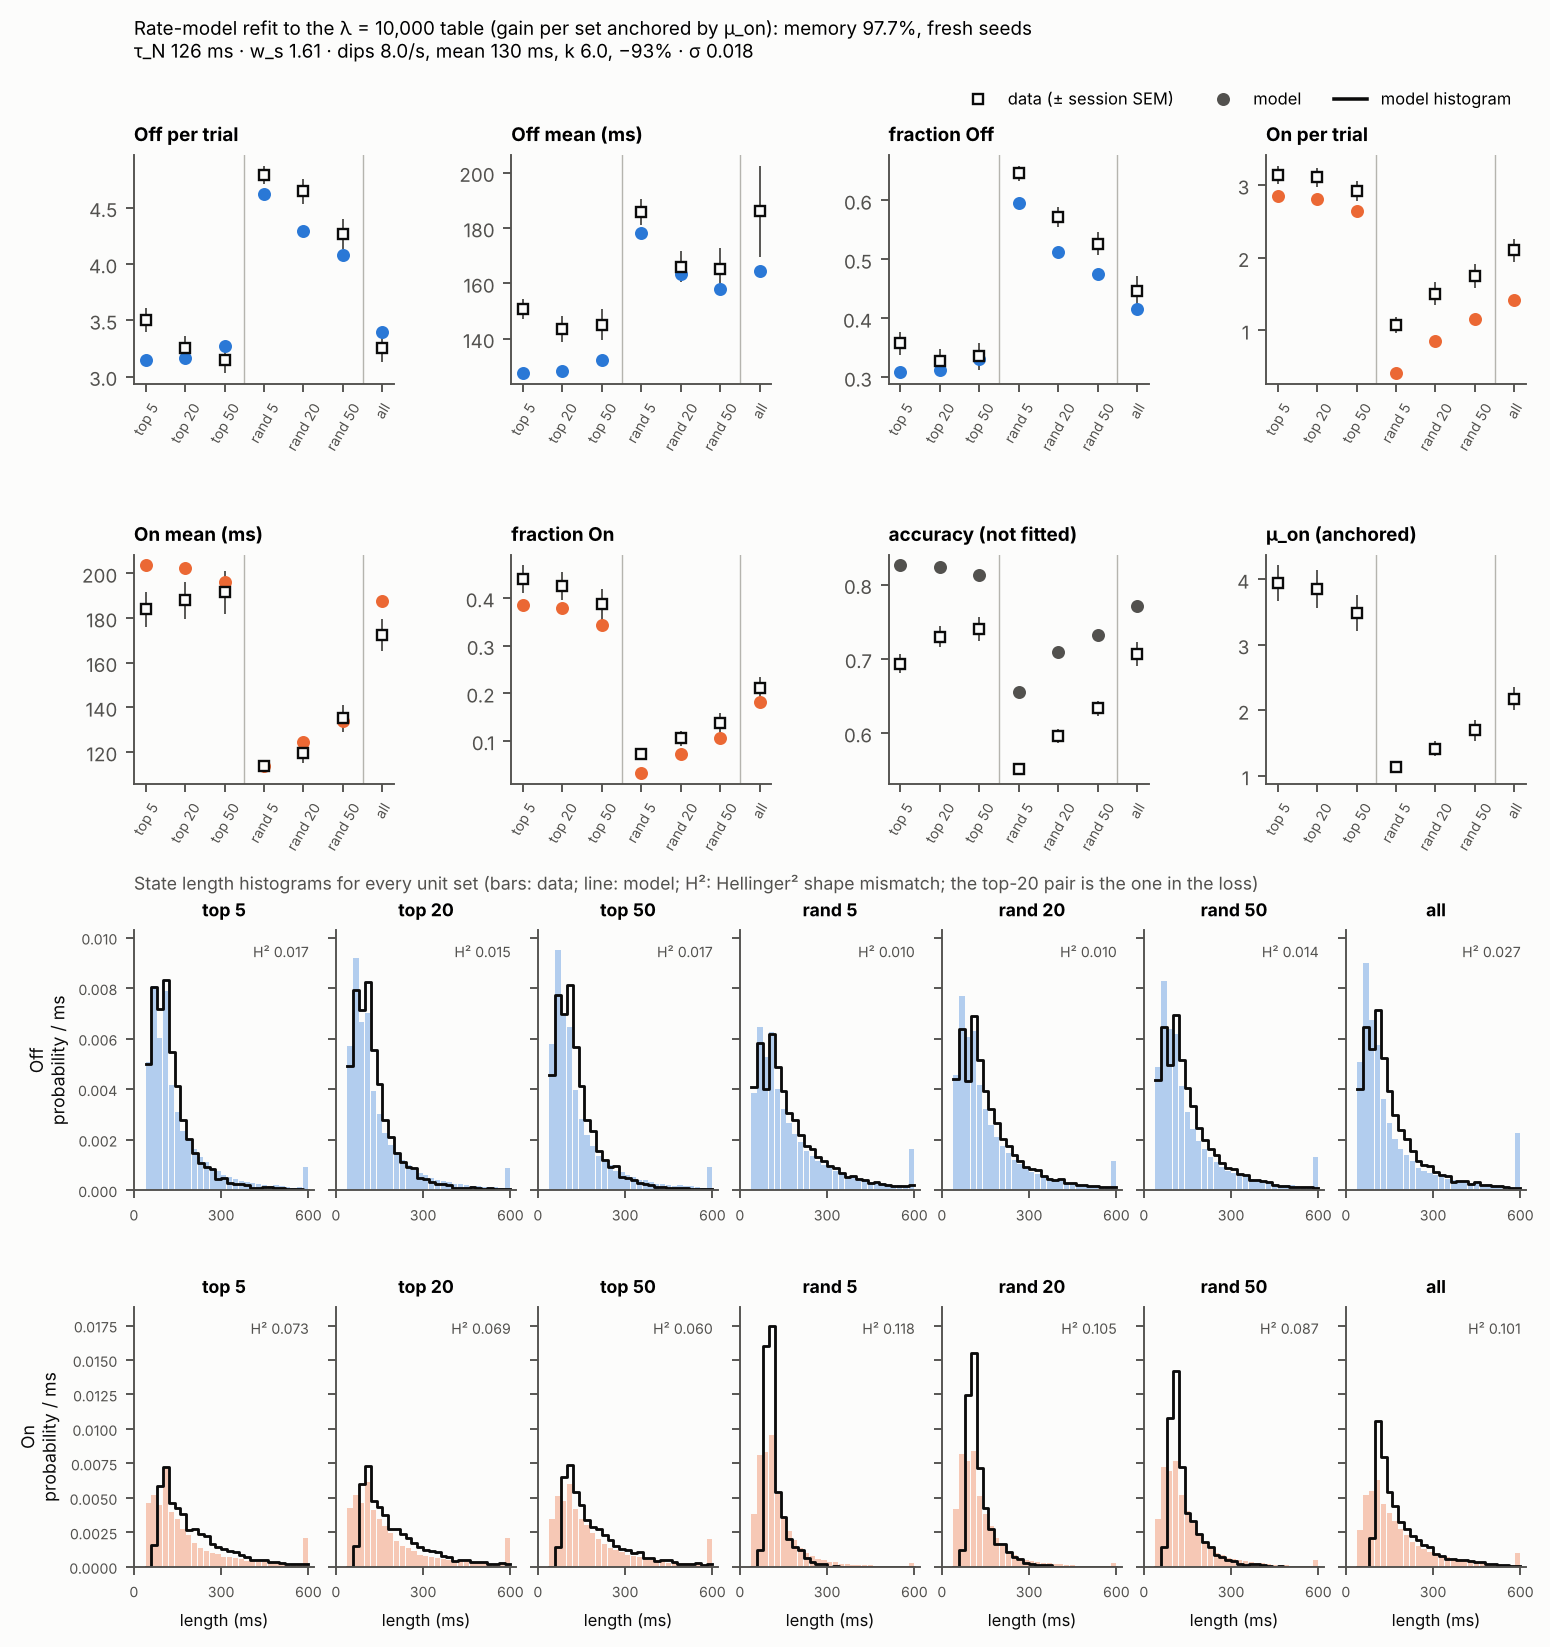
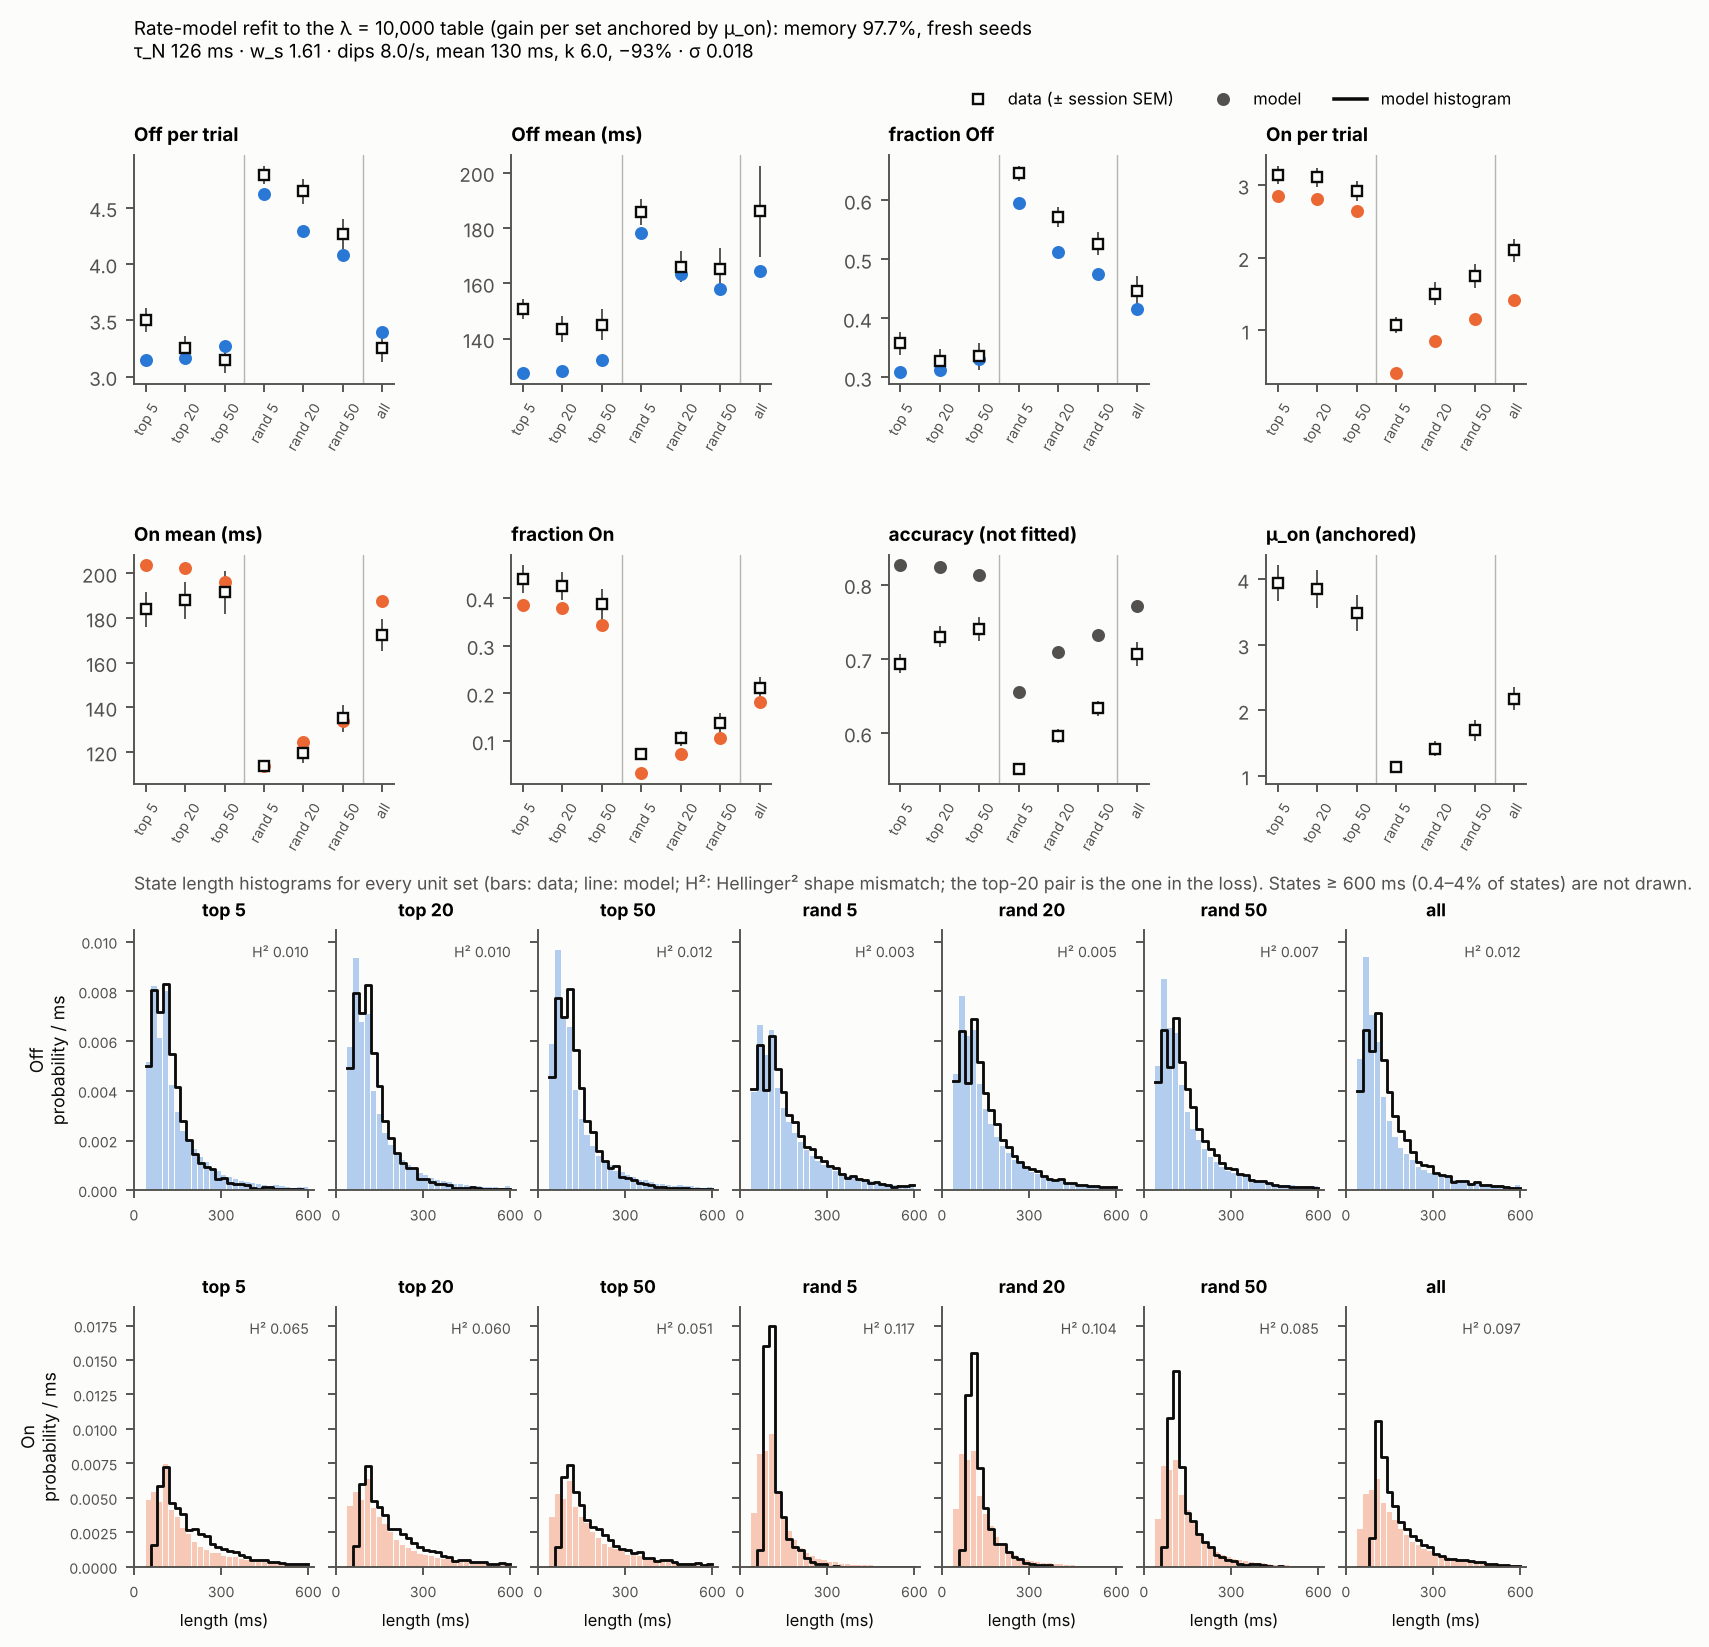
Data histograms: the CSV's 580-600 ms bin also held every state >= 600 ms; subtract the overflow row
Claude-Session: https://claude.ai/code/session_01DWA8oLxpZgubPZ4A6kb3Lh

diff --git a/scripts/mf_figures.py b/scripts/mf_figures.py
@@ -382,6 +382,8 @@ def fig_spiking(dec='data/sp_start_decode', label='spiking starting point', out=
     H = {}
     for r in csv.DictReader(open('meanfield/data/readout_histograms_data.csv')):
         H.setdefault((r['set'], r['k'], r['state']), []).append(float(r['count']))
+    for key, v in H.items():                       # 580-600 bin also holds the clipped >= 600 ms states
+        v[-2] -= v[-1]
     S = json.load(open(os.path.join(dec, 'summary.json')))
     D = {(r['set'], r['k']): r for r in csv.DictReader(open('meanfield/data/readout_summary_data.csv'))}
     edges = np.arange(0, 620, 20)
@@ -389,7 +391,7 @@ def fig_spiking(dec='data/sp_start_decode', label='spiking starting point', out=
     for i, (st, dk, name) in enumerate((('all', ('all', 'session count'), 'all units (329)'), ('top', ('top', '20'), 'top 20 units'))):
         for j, (state, col) in enumerate((('off', C_OFF), ('on', C_ON))):
             a = ax[i, j]
-            hd = np.array(H[(dk[0], dk[1], state)]); hd = hd[:-1] / hd.sum()
+            hd = np.array(H[(dk[0], dk[1], state)]); hd = hd[:-1] / hd.sum()          # >= 600 ms in the total
             a.bar(edges[:-1], hd / 20, width=18, align='edge', color=col, alpha=0.35, lw=0, label='data')
             dur = np.concatenate([[d for dr in [x for x in s['results'] if x['set'] == st and x['lam'] == 30.0][0]['draws']
                                    for d in dr[state + '_dur']] for s in ses])
@@ -541,7 +543,8 @@ def fig_refit(res='data/mf_refit_best_fresh.json', out='fig10_refit_lam10000.png
             a.set_ylim(0, ymax * 1.08)
         axs[0].set_ylabel(f'{name}\nprobability / ms', fontsize=7.5)
     fig.text(0.07, 0.465, 'State length histograms for every unit set (bars: data; line: model; H²: Hellinger² shape '
-             'mismatch; the top-20 pair is the one in the loss)', fontsize=7.5, color=INK2)
+             'mismatch; the top-20 pair is the one in the loss). States ≥ 600 ms (0.4–4% of states) are not drawn.',
+             fontsize=7.5, color=INK2)
     th = r['theta']
     fig.suptitle(f'Rate-model refit to the λ = 10,000 table (gain per set anchored by μ_on): memory {r["mem"]:.1%}, fresh seeds\n'
                  f'τ_N {th["tau_N"]:.0f} ms · w_s {th["w_s"]:.2f} · dips {th["dip_rate"]:.1f}/s, mean {th["dip_mean"]:.0f} ms, '

diff --git a/meanfield/refit.py b/meanfield/refit.py
@@ -48,9 +48,11 @@ def load_hist(st):
     out = {}
     for state, v in H.items():
         lo = np.array([a for a, _ in v]); c = np.array([b for _, b in v])
-        tot = c.sum() - c[lo < EDGES[0]].sum()
+        # the CSV's 580-600 ms bin also holds every state >= 600 ms (clipped), which the '600' row repeats
+        over = c[lo == 600].sum()
+        c = np.where(lo == 580, c - over, c)
         inside = np.array([c[lo == e].sum() for e in EDGES[:-1]])
-        out[state] = np.r_[inside, tot - inside.sum()] / tot
+        out[state] = np.r_[inside, over] / (inside.sum() + over)
     return out
 
 
